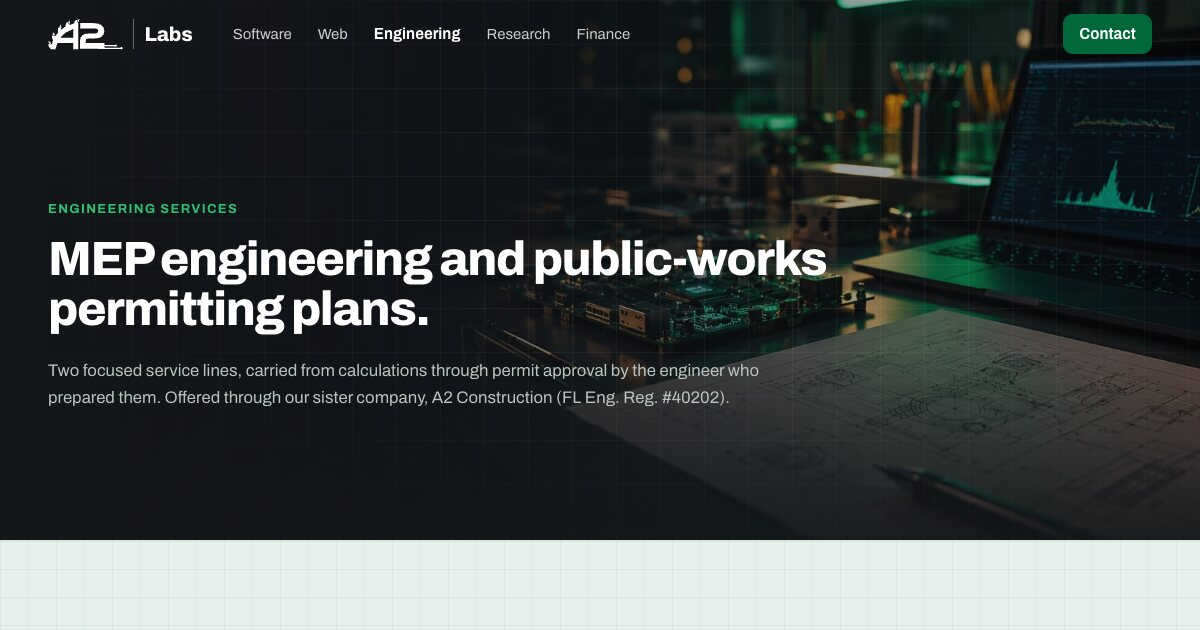
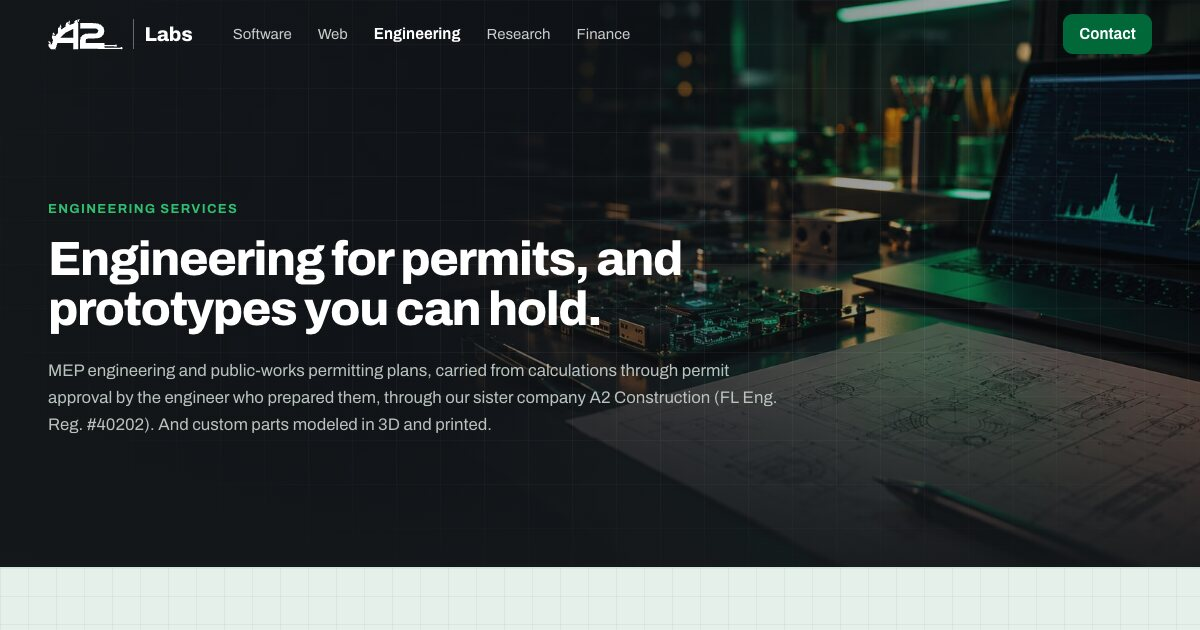
Engineering: add custom prototype modeling and fabrication (3D printing)
A third line on the Engineering page, offered by A2 Labs itself; the
A2 Construction PE credit now names MEP and MOT specifically.

Claude-Session: https://claude.ai/code/session_012cbtMP4PKFxgYyhK3oRstV

diff --git a/src/data/services.ts b/src/data/services.ts
@@ -23,7 +23,7 @@ export const services = [
     icon: 'gear',
     title: 'Engineering services',
     nav: 'Engineering',
-    summary: 'MEP engineering and MOT / public-works plans for permits, through A2 Construction, FL Eng. Reg. #40202.',
+    summary: 'MEP engineering and MOT plans for permits (through A2 Construction), plus custom prototypes modeled and 3D-printed.',
   },
   {
     id: 'research',

diff --git a/src/styles/global.css b/src/styles/global.css
@@ -1366,7 +1366,7 @@ h4 {
 
 .eng-lines {
   display: grid;
-  grid-template-columns: repeat(2, minmax(0, 1fr));
+  grid-template-columns: repeat(3, minmax(0, 1fr));
   gap: 24px;
 }
 

diff --git a/README.md b/README.md
@@ -45,9 +45,10 @@ Every screenshot comes from demo data, never from a real company:
 
 - Brand **A2 Labs** is a fictitious name (DBA) of **A2 Consulting LLC**, the legal name (footer,
   structured data). Don't go live before the Florida fictitious-name registration is filed.
-- Engineering = exactly two lines, from a2engs.com: **MEP engineering** and **MOT / public-works
-  plans** (drafting and 3D/BIM are how they're delivered, not separate services). They are
-  professional engineering provided by **A2 Construction, FL Eng. Reg. #40202**: say so wherever
+- Engineering = **MEP engineering** and **MOT / public-works plans** (from a2engs.com; drafting and
+  3D/BIM are how they're delivered, not separate services), plus **custom prototype modeling &
+  fabrication** (3D modeling and printing; A2 Labs' own, not professional engineering). MEP and MOT
+  are professional engineering provided by **A2 Construction, FL Eng. Reg. #40202**: say so wherever
   they're described, and link to a2cons.com.
 - No invented numbers, clients or testimonials.
 
